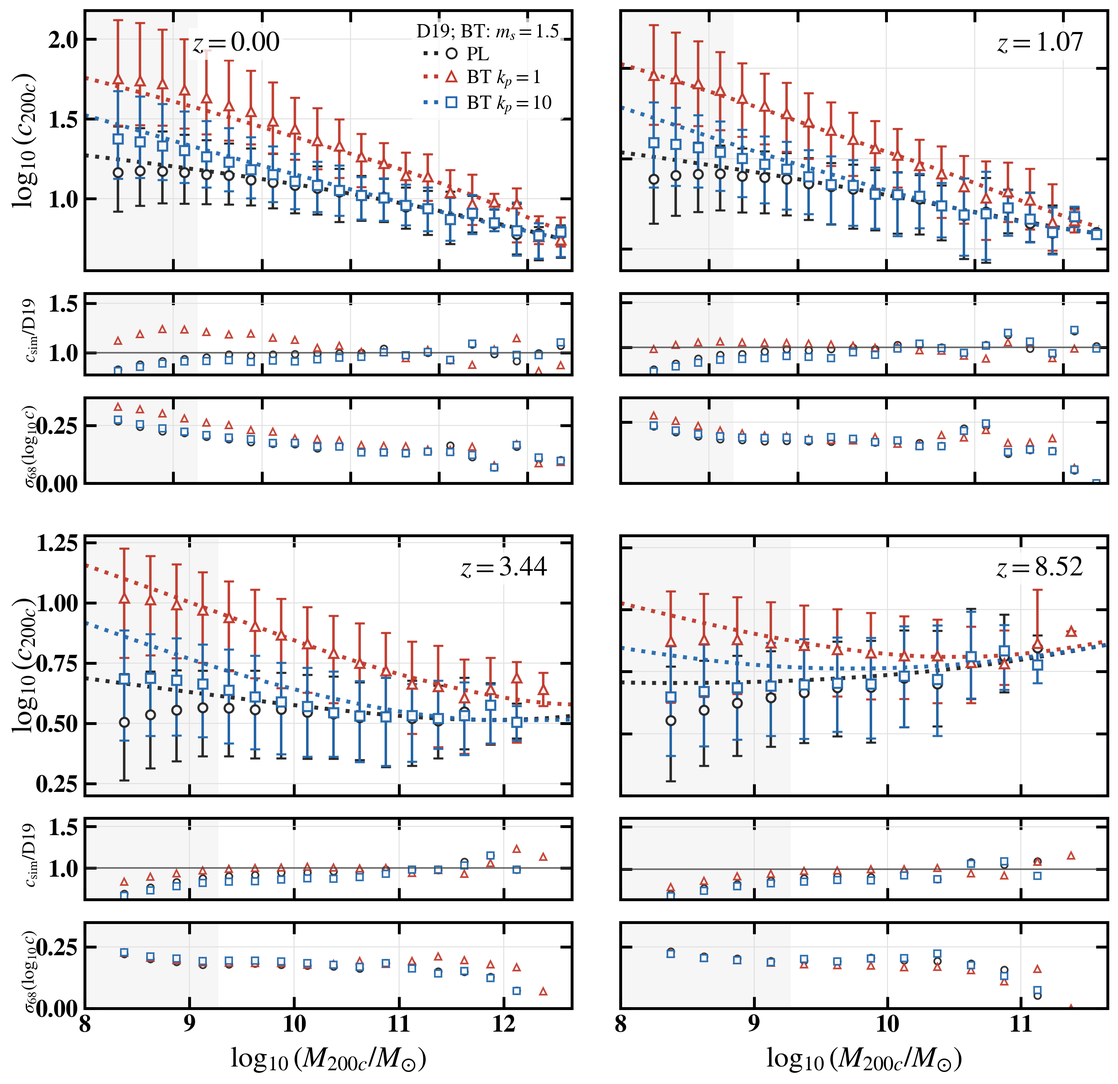
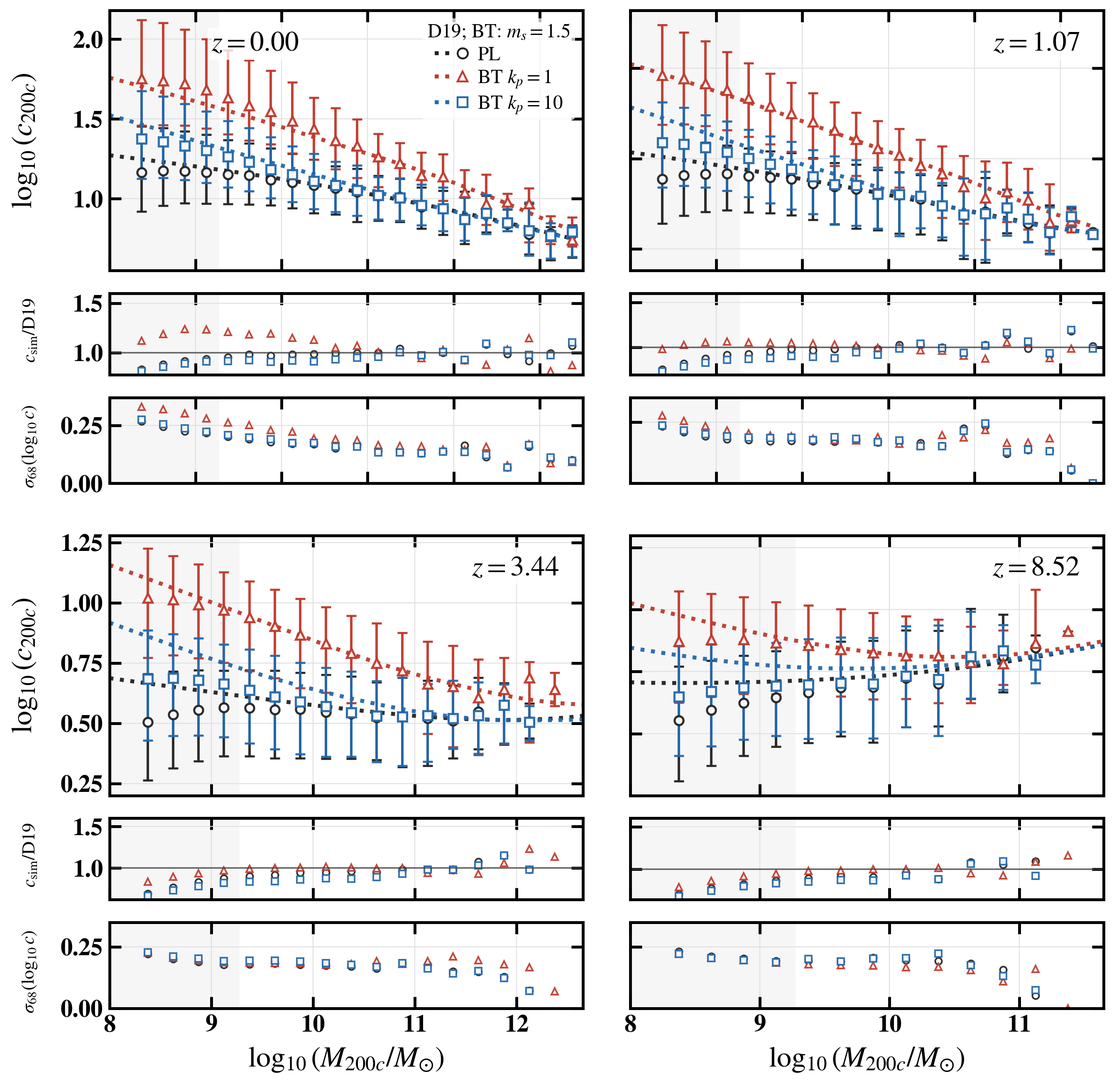
Address follow-up manuscript and figure review

diff --git a/main.tex b/main.tex
@@ -21,7 +21,7 @@
 \usepackage{dcolumn}
 \usepackage[mathlines]{lineno}
 \usepackage{multirow}
-\usepackage{url}
+\usepackage{xurl}
 \usepackage{xcolor}
 \DeclareRobustCommand{\change}[1]{\textcolor{blue}{#1}}
 \newcommand{\tabcell}[2]{\parbox[t]{#1}{\raggedright #2}}
@@ -95,7 +95,7 @@
 
 % ===== Abstract ===== #
 \begin{abstract}
-The primordial power spectrum is well constrained on large scales but remains uncertain on small scales. We use dark-matter-only cosmological \(N\)-body simulations initialized with the same random phases to determine how enhanced small-scale power changes nonlinear structure formation. We compare a standard power-law (PL) model with two broken-power-law blue-tilted (BT) models whose spectra steepen above pivot wavenumbers \(k_p=1\) and \(10\,h\,{\rm Mpc}^{-1}\). We measure halo mass functions, assembly histories, radial density profiles, concentration--mass relations, and nonlinear matter power spectra. Enhanced small-scale power increases the abundance of low-mass halos at high redshift, shifts halo assembly earlier, and increases the concentrations of low-mass halos. The \(k_p=1\,h\,{\rm Mpc}^{-1}\) model also produces denser resolved inner halo profiles. These effects are stronger in the \(k_p=1\,h\,{\rm Mpc}^{-1}\) model than in the \(k_p=10\,h\,{\rm Mpc}^{-1}\) model and weaken toward higher halo masses and lower redshifts. The nonlinear matter power enhancement grows toward higher redshift and higher wavenumber. Published mass-function, concentration, and mass-assembly prescriptions reproduce the broad trends, but their agreement with the simulations varies with redshift and halo mass. These dark-matter-only results can be used in studies that include baryonic physics and observational selection.
+The primordial power spectrum is well constrained on large scales but remains uncertain on small scales. We use dark-matter-only cosmological \(N\)-body simulations initialized with the same random phases to determine how enhanced small-scale power changes nonlinear structure formation. We compare a standard power-law (PL) model with two broken-power-law blue-tilted (BT) models whose spectra steepen above pivot wavenumbers \(k_p=1\) and \(10\,h\,{\rm Mpc}^{-1}\). We measure halo mass functions, \change{halo--matter bias,} assembly histories, radial density profiles, concentration--mass relations, and nonlinear matter power spectra. Enhanced small-scale power increases the abundance of low-mass halos at high redshift, shifts halo assembly earlier, and increases the concentrations of low-mass halos. The \(k_p=1\,h\,{\rm Mpc}^{-1}\) model also produces denser resolved inner halo profiles. These effects are stronger in the \(k_p=1\,h\,{\rm Mpc}^{-1}\) model than in the \(k_p=10\,h\,{\rm Mpc}^{-1}\) model and weaken toward higher halo masses and lower redshifts. The nonlinear matter power enhancement grows toward higher redshift and higher wavenumber. Published mass-function, concentration, and mass-assembly prescriptions reproduce the broad trends, but their agreement with the simulations varies with redshift and halo mass. These dark-matter-only results can be used in studies that include baryonic physics and observational selection.
 
 \end{abstract}
 
@@ -112,14 +112,10 @@ Small-scale enhancements of the primordial power spectrum arise in several class
 We use broken-power-law blue-tilted spectra to study how enhanced small-scale primordial power changes nonlinear structure formation. Here, ``blue-tilted'' (BT) refers specifically to a broken-power-law enhancement whose small-scale slope is steeper than the PL slope, following previous small-scale-power studies \citep[e.g.][]{Hirano15BlueTiltedPPS,Parashari23JWSTPPS,Hira24bluetilt,Tkac24BumpyPPS,deKruijf25DarkAges,Dekker25DwarfPPS,Wu25BT}.
 
 
-We compare a standard power-law primordial spectrum with two BT models using dark-matter-only cosmological \(N\)-body simulations in periodic boxes. The simulations are initialized with the same random phases. We measure the halo mass function (HMF), assembly histories, radial density profiles, concentrations, and the nonlinear matter power spectrum. We also test published halo mass-function, concentration, and mass-assembly prescriptions using the linear matter spectrum of each model without refitting their parameters.
+\change{We follow three dark-matter-only cosmological \(N\)-body models with matched initial phases to \(z=0\), comparing a standard power-law spectrum with two BT spectra. Sections~\ref{sec:theory} and \ref{sec:numerical} describe the spectra and simulations. In Sec.~\ref{sec:results}, we measure the halo mass function (HMF), halo--matter bias, assembly histories, radial density profiles, concentrations, and the nonlinear matter power spectrum. For the mass functions, concentrations, and assembly histories, we evaluate published prescriptions using each model's linear spectrum and the published parameters. Section~\ref{sec:discussion} discusses the physical trends, observational implications, and numerical limits.}
 
-\section{Theoretical Overview}
+\section{Power-Spectrum Models and Linear Matter Power}
 \label{sec:theory}
-
-The primordial power spectrum is specified by a PL or BT model such as Eq.~\eqref{eq:bt_input_power}. The input linear matter power spectrum is the spectrum at the initial redshift, \(z_i=200\), after applying the transfer function and normalizing to the common \(\sigma_8\) target.
-
-\subsection{Power-Spectrum Models and Linear Matter Power}
 \label{subsec:power_models}
 
 \change{In the power-law (PL) model, the primordial power spectrum scales as \(P_{\rm prim}(k)\propto k^{n_s}\), where \(k\) is the comoving wavenumber and \(n_s\simeq0.965\) is the scalar spectral index \citep{Planck20CMB}.}
@@ -151,7 +147,7 @@ To estimate the halo mass scale associated with each pivot, we follow \citet{Wu2
 M_p=\frac{4\pi}{3}r_l^3\rho_{{\rm crit},0}\Omega_{{\rm m},0}.
 \label{eq:pivot_mass}
 \end{equation}
-Here, \(\rho_{{\rm crit},0}\) is the present-day critical density and \(\Omega_{{\rm m},0}\) is the present-day matter density parameter. For our cosmology, \(k_p=1\) and \(10\,h\,{\rm Mpc}^{-1}\) give \(M_p=1.68\times10^{13}\) and \(1.68\times10^{10}\,M_\odot\), respectively. These values indicate the approximate mass scales affected by each pivot, but they are not sharp boundaries.
+Here, \(\rho_{{\rm crit},0}\) is the present-day critical density and \(\Omega_{{\rm m},0}\) is the present-day matter density parameter. For our cosmology, \(k_p=1\) and \(10\,h\,{\rm Mpc}^{-1}\) give \(M_p=1.68\times10^{13}\) and \(1.68\times10^{10}\,M_\odot\), respectively.
 
 \section{Numerical Methods}
 \label{sec:numerical}
@@ -178,7 +174,7 @@ For each set of corresponding PL and BT runs, we keep the background cosmology, 
 For the power-spectrum measurements (\S\ref{subsub:PS}), we use phase-paired simulations following \citet{Pontzen2016Inverted}. Each pair comprises the original simulation and a counterpart with the initial linear density contrast reversed, \(\delta_{\rm inv}(\boldsymbol{x},z_i)=-\delta_{\rm orig}(\boldsymbol{x},z_i)\), equivalent to shifting every initial Fourier phase by \(\pi\) while retaining its amplitude. At each redshift, we take the arithmetic mean of their measured power spectra before forming the BT/PL ratios. Averaging cancels contributions that are odd under the reversal of the initial density field, reducing phase-dependent fluctuations in the power-spectrum comparison within the finite simulation volume. The halo measurements use the original simulations.
 
 
-As an initial-condition consistency test, we compare the BT pivot scales with the particle-grid Nyquist wavenumber, \(k_{\rm Ny}=\pi N_{\rm side}/L_{\rm box}\), where \(N_{\rm side}\) is the number of particles along one dimension and \(L_{\rm box}\) is the comoving box length listed in Table~\ref{tab:simulation_parameters}. For the main \(25\,h^{-1}{\rm Mpc}\), \(1024^3\) runs, \(k_{\rm Ny}\simeq128.7\,h\,{\rm Mpc}^{-1}\). The two pivots, \(k_p=1\) and \(10\,h\,{\rm Mpc}^{-1}\), are therefore well below the grid Nyquist scale. We define the dimensionless linear power as \(\Delta^2(k,z)=k^3P_{\rm lin}(k,z)/(2\pi^2)\). The largest dimensionless linear power over this range is \(\Delta^2(k,z_i)\simeq5.8\times10^{-5}\) for \BTKPone{}, so the enhanced modes are still linear at \(z_i=200\). This comparison addresses the location and initial linearity of the imposed break, but it does not constitute a nonlinear convergence test.
+As an initial-condition consistency test, we compare the BT pivot scales with the particle-grid Nyquist wavenumber, \(k_{\rm Ny}=\pi N_{\rm side}/L_{\rm box}\), where \(N_{\rm side}\) is the number of particles along one dimension and \(L_{\rm box}\) is the comoving box length listed in Table~\ref{tab:simulation_parameters}. For the main \(25\,h^{-1}{\rm Mpc}\), \(1024^3\) runs, \(k_{\rm Ny}\simeq128.7\,h\,{\rm Mpc}^{-1}\). The two pivots, \(k_p=1\) and \(10\,h\,{\rm Mpc}^{-1}\), are therefore well below the grid Nyquist scale. We define the dimensionless linear power as \(\Delta^2(k,z)=k^3P_{\rm lin}(k,z)/(2\pi^2)\). The largest dimensionless linear power over this range is \(\Delta^2(k,z_i)\simeq5.8\times10^{-5}\) for \BTKPone{}, so the enhanced modes are still linear at \(z_i=200\).
 
 \begin{figure}[t]
     \centering
@@ -188,15 +184,13 @@ As an initial-condition consistency test, we compare the BT pivot scales with th
 \end{figure}
 
 
-\subsection{Simulation Code}
-We evolve the initial conditions with the cosmological $N$-body code \textsc{SWIFT} \citep{Schaller2024SWIFT}\footnote{Publicly available at \url{https://swiftsim.com/}.}. \textsc{SWIFT}'s gravity solver uses a fast-multipole method \citep{Dehn00FMM}, coupled to a Particle-Mesh solver at large scales \citep{Hock88PM}.
-
-
-\subsection{Simulation Suite and Terminology}
+\subsection{Simulation Suite and Code}
 \label{subsec:simulation_suite}
 \label{subsec:Terminology}
 
-Table~\ref{tab:simulation_parameters} lists the three simulations used for the main analysis. The main comparison uses three \(25\,h^{-1}{\rm Mpc}\), \(1024^3\) runs: PL, \BTKPone{}, and \BTKPten{}. They share the same mass resolution, force softening, initial random phases, and \textsc{SWIFT} settings, and differ only in the input linear matter spectrum generated by MonofonIC.
+\change{We evolve the initial conditions with \textsc{SWIFT} \citep{Schaller2024SWIFT}\footnote{Publicly available at \url{https://swiftsim.com/}.}, which couples a fast multipole gravity solver \citep{Dehn00FMM} to a particle-mesh solver on large scales \citep{Hock88PM}.}
+
+\change{Table~\ref{tab:simulation_parameters} lists the simulations used for the main analysis.} The main comparison uses three \(25\,h^{-1}{\rm Mpc}\), \(1024^3\) runs: PL, \BTKPone{}, and \BTKPten{}. They share the same mass resolution, force softening, initial random phases, and \textsc{SWIFT} settings, and differ only in the input linear matter spectrum generated by MonofonIC.
 
 
 
@@ -205,7 +199,7 @@ Table~\ref{tab:simulation_parameters} lists the three simulations used for the m
 
 
 \begin{table*}[t]
-\caption{\change{Parameters of the cosmological \(N\)-body simulations used in the main analysis. The \(k_p\) and \(m_s\) columns specify the primordial power-spectrum models (see \S\ref{sec:theory}); \(N_{\rm p}\) is the particle number; \(L_{\rm box}\) is the comoving box length; \(m_{\rm DM}\) is the dark matter particle mass; and \(\epsilon_{\rm Pl}\) is the Plummer-equivalent softening length in physical kpc at \(z=0\). The three \(25\,h^{-1}{\rm Mpc}\) runs share the same initial random phases. Additional PL simulations used for resolution and volume tests are described in Appendix~\ref{app:fof_hmf_resolution}.}}
+\caption{\change{Parameters of the cosmological \(N\)-body simulations used in the main analysis. The \(k_p\) and \(m_s\) columns specify the primordial power-spectrum models (see \S\ref{sec:theory}); \(N_{\rm p}\) is the particle number; \(L_{\rm box}\) is the comoving box length; \(m_{\rm DM}\) is the dark matter particle mass; and \(\epsilon_{\rm Pl}\) is the Plummer-equivalent softening length in physical kpc at \(z=0\). Within each box size, the three runs share the same initial random phases. Additional PL simulations used for resolution and volume tests are described in Appendix~\ref{app:fof_hmf_resolution}.}}
 \label{tab:simulation_parameters}
 \label{tab:Params_all_models}
 \centering
@@ -229,13 +223,13 @@ PL & -- & -- & \(1024^3\) & 25 & \(1.27\times 10^6\) & 0.725 \\
 \subsection{Halo Catalogs and Merger Trees}
 \label{subsec:halo_catalogs}
 
-We use Friends-of-Friends (FOF) \citep{Davis1985FOF} and spherical-overdensity (SO) masses for different measurements. \textsc{SWIFT} identifies FOF groups with a linking length equal to $0.2$ times the mean interparticle separation. We denote the total dark matter mass of each group by $M_{\rm FOF}$. We use \textsc{HBT-HERONS} \citep{Victor25HBTHERONS} to identify the bound objects associated with these groups and retain candidates with at least 20 particles.
+\change{\textsc{SWIFT} identifies friends-of-friends (FOF) groups \citep{Davis1985FOF} using a linking length of \(0.2\) times the mean interparticle separation. The total dark matter mass of each group is \(M_{\rm FOF}\). We identify bound objects associated with these groups with \textsc{HBT-HERONS} \citep{Victor25HBTHERONS}, retaining candidates with at least 20 particles.}
 
-We use \textsc{SOAP} \citep{McGibbon2025SOAP} to measure SO properties around the position of the most-bound \textsc{HBT-HERONS} particle. For a reference density $\rho_{\rm ref}(z)$, $R_{200}$ is the radius of a sphere within which the matter has an average density of $200\rho_{\rm ref}(z)$, and
+\change{\textsc{SOAP} \citep{McGibbon2025SOAP} measures spherical-overdensity (SO) properties around the most-bound \textsc{HBT-HERONS} particle. The mass within \(R_{200}\), the radius enclosing a mean density of \(200\rho_{\rm ref}(z)\), is}
 \begin{equation}
 M_{200}=\frac{4\pi}{3}\,200\rho_{\rm ref}(z)R_{200}^3.
 \end{equation}
-We use \(\rho_{\rm ref}(z)=\rho_{\rm crit}(z)\), the critical density at redshift \(z\), for \(M_{200c}\) and \(R_{200c}\). We use \(\rho_{\rm ref}(z)=\rho_{\rm m}(z)\), the cosmic mean matter density at redshift \(z\), for \(M_{200m}\) and \(R_{200m}\). These quantities are read from the \texttt{SO/200\_crit} and \texttt{SO/200\_mean} catalog fields.
+\change{The critical density \(\rho_{\rm crit}(z)\) defines \(M_{200c}\) and \(R_{200c}\), while the cosmic mean matter density \(\rho_{\rm m}(z)\) defines \(M_{200m}\) and \(R_{200m}\). The corresponding \textsc{SOAP} catalog fields are \texttt{SO/200\_crit} and \texttt{SO/200\_mean}.}
 %\Tk{You also use M200 below. Need to mention here.}
 
 We describe halo structure with the Navarro--Frenk--White (NFW) density profile \citep{Navarro1996NFW,Navarro1997NFW},
@@ -246,7 +240,7 @@ We describe halo structure with the Navarro--Frenk--White (NFW) density profile 
 \end{equation}
 where \(r_s\) is the scale radius and \(\rho_s\) is the characteristic density. The \(200c\) concentration is \(c_{200c}=R_{200c}/r_s\).
 
-We measure radial density profiles by binning dark matter particles in spherical shells centered on the most-bound particle identified by \textsc{HBT-HERONS}. We match the halo catalog to these particle positions using the persistent halo identifiers and retain the \textsc{SOAP} \(M_{200m}\) and \(R_{200m}\) for mass selection and radial scaling.
+\change{For the radial profiles, we use persistent halo identifiers to match the catalog entries to the positions of their most-bound particles and bin the dark matter in spherical shells around those positions. The \textsc{SOAP} values of \(M_{200m}\) and \(R_{200m}\) set the mass selection and radial scale.}
 
 The concentration analysis uses the \textsc{SOAP} \(c_{200c}\) value for the SO aperture centered on the most-bound-particle position supplied by \textsc{HBT-HERONS}. \textsc{SOAP} derives this concentration from the first radial moment of the mass distribution inside \(R_{200c}\), assuming an NFW profile. Particle radii smaller than the force-softening length are set to that length in this calculation.
 
@@ -266,7 +260,7 @@ The concentration analysis uses the \textsc{SOAP} \(c_{200c}\) value for the SO 
 \end{figure*}
 
 
-At \(z=8.52\), both BT models show more small-scale structure than PL, with the strongest contrast in \BTKPone{}. The differences become less visible toward \(z=0\). We quantify them below using halo and matter statistics.
+\change{Figure~\ref{fig:dark_matter_comparison} shows the projected dark matter density at \(z=8.52\), \(2.03\), and \(0\). The large-scale structures appear in the same locations across the three phase-matched simulations. At \(z=8.52\), both BT runs show more small-scale clumping than PL, especially \BTKPone{}. The visual contrast is weaker by \(z=0\).}
 
 \subsection{Halo Mass Function\label{subsub:HMF}}
 
@@ -300,7 +294,7 @@ Within the resolved mass range, both blue-tilted models increase the low-mass FO
 
 \change{We also measure the halo mass function using the spherical-overdensity mass definition \(M_{200c}\). Here the logarithmic mass bins have width \(\Delta\log_{10}M_{200c}=0.15\) dex, and the plotted mass coordinate is the geometric bin center, \(M_{\rm cen}=\sqrt{M_{\rm low}M_{\rm high}}\), where \(M_{\rm low}\) and \(M_{\rm high}\) are the bin edges. We obtain \(dn/d\ln M_{200c}\) by dividing the halo count by the comoving volume and the natural-log bin width, \(\Delta\ln M_{200c}=0.15\ln 10\). The simulation points are measured from the SOAP \texttt{SO/200\_crit} catalogs with a minimum of 100 dark matter particles per halo, corresponding to \(M_{200c}\simeq1.9\times10^8\,M_\odot\) in the main runs, and the plotted bins also impose \(M_{200c}\ge2.0\times10^8\,M_\odot\). We evaluate the Bocquet et al. (2016) \(M_{200c}\) mass function \citep{Bocquet2016} using the linear matter power spectrum of each model: PL, \BTKPone{}, and \BTKPten{}.}
 
-We quantify the agreement using the median simulation-to-model ratio across mass bins above the adopted mass limit and containing at least 20 halos. At \(z=0\) and \(z=3.44\), this median differs from unity by less than \(8\%\) for every model in both the Reed et al. (2007) FOF and Bocquet et al. (2016) \(M_{200c}\) comparisons. At \(z=8.52\), the median differences increase to \(2\)--\(22\%\) for Reed et al. (2007) and \(16\)--\(32\%\) for Bocquet et al. (2016). Larger deviations occur in sparsely populated high-mass bins. Thus, the median agreement is strongest at lower redshift and less uniform at high redshift.
+We quantify the agreement using the median simulation-to-model ratio across mass bins above the adopted mass limit and containing at least 20 halos. At \(z=0\) and \(z=3.44\), this median differs from unity by less than \(8\%\) for every model in both the Reed et al. (2007) FOF and Bocquet et al. (2016) \(M_{200c}\) comparisons. At \(z=8.52\), the median differences increase to \(2\)--\(22\%\) for Reed et al. (2007) and \(16\)--\(32\%\) for Bocquet et al. (2016). Larger deviations occur in sparsely populated high-mass bins.
 
 \begin{figure*}[t]
     \centering
@@ -314,7 +308,7 @@ We quantify the agreement using the median simulation-to-model ratio across mass
 \begin{figure*}[t]
     \centering
     \includegraphics[width=\textwidth]{halo-bias.pdf}
-    \caption{\change{Halo--matter bias for PL, \BTKPone{}, and \BTKPten{}. Circles and triangles show FOF groups in the \(256\) and \(25\,h^{-1}{\rm Mpc}\) boxes, respectively. Diamonds show \textsc{SOAP} \(M_{200m}\) measurements for \textsc{HBT+} centrals in the smaller box. Error bars are jackknife uncertainties obtained by omitting one independent Fourier mode at a time. Solid and dashed lines show Tinker et al. (2010) \protect\cite{Tinker2010HaloBias} at \(M_{200m}\) and Sheth--Tormen (1999) \protect\cite{ShethTormen1999Bias}, respectively. Halo masses are shown in \(h^{-1}M_\odot\). The two boxes sample the different \(k\) intervals specified in the text. At \(z=10.52\), only the smaller box has mass bins that pass the selection cuts.}}
+    \caption{\change{Halo--matter bias for PL, \BTKPone{}, and \BTKPten{}. Circles and triangles show FOF groups in the \(256\) and \(25\,h^{-1}{\rm Mpc}\) boxes, respectively. Diamonds show \textsc{SOAP} \(M_{200m}\) measurements for \textsc{HBT+} centrals in the smaller box. Error bars are jackknife uncertainties obtained by omitting one independent Fourier mode at a time. Solid and dashed lines show Tinker et al. (2010) \protect\cite{Tinker2010HaloBias} at \(M_{200m}\) and Sheth--Tormen (1999) \protect\cite{ShethTormen1999Bias}, respectively. Halo masses are shown in \(M_\odot\). The two boxes sample the different \(k\) intervals specified in the text. At \(z=10.52\), only the smaller box has mass bins that pass the selection cuts.}}
     \label{fig:halo_bias}
 \end{figure*}
 
@@ -333,7 +327,7 @@ where the sums run over independent Fourier modes in the selected \(k\) interval
 
 We do not fill missing snapshots or force the recorded mass histories to increase monotonically. Temporary FOF bridge or split events can therefore remove a halo from the measurable sample or produce a temporary mass decrease.
 
-Figure~\ref{fig:half_mass_redshift} compares our measurements with the relations of \citet{BoylanKolchin2009MSII} (BK09) and \citet{Hellwing16cocoproject} (COCO/Hellwing16). BK09 measured the mean half-mass formation redshift in the Millennium-II simulation using virial masses. COCO/Hellwing16 used the same fitting form with FOF masses. We evaluate both published relations at the mean final mass in each of our FOF mass bins. The external simulations use different background cosmologies, and BK09 also uses a different halo-mass definition. These standard-power-law relations provide qualitative comparisons with the PL assembly histories.
+Figure~\ref{fig:half_mass_redshift} compares our measurements with the relations of \citet{BoylanKolchin2009MSII} (BK09) and \citet{Hellwing16cocoproject} (COCO/Hellwing16). BK09 measured the mean half-mass formation redshift in the Millennium-II simulation using virial masses. COCO/Hellwing16 used the same fitting form with FOF masses. We evaluate both published relations at the mean final mass in each of our FOF mass bins. The external simulations use different background cosmologies, and BK09 also uses a different halo-mass definition.
 
 For the 15 resolved PL bins spanning \(1.25\times10^9\le M_{\rm FOF}/M_\odot\le8.22\times10^{11}\), the mean absolute offset \(\langle|z_{1/2}^{\rm PL}-z_{1/2}^{\rm ref}|\rangle\) is \(0.053\) from BK09 and \(0.097\) from COCO/Hellwing16. The maximum absolute offsets are \(0.128\) and \(0.207\), respectively. Thus, the PL measurements follow both external relations to within about \(0.1\) in \(z_{1/2}\) on average.
 
@@ -389,7 +383,7 @@ For the Correa-EPS curves, we use the Planck 2018 cosmology in Sec.~\ref{subsec:
 
 At fixed final FOF mass, both the simulations and the Correa-EPS calculation predict larger progenitor masses for \BTKPone{} than for PL. The difference increases with redshift, indicating earlier assembly in \BTKPone{}. The Correa-EPS calculation agrees more closely with the \BTKPone{} histories. For \(10^9\le M_0/M_\odot\le10^{11}\), the maximum absolute difference \(\lvert M_{\rm sim}/M_{\rm Correa}-1\rvert\) at \(z=1,2,4,\) and \(6\) is \(46\%\) for PL and \(9\%\) for \BTKPone{}. At \(M_0=3\times10^{11}\,M_\odot\), the corresponding differences are \(23\%\) and \(16\%\), respectively.
 %\Tk{Mention that We also expect the results from the EPS formula: In BT, we have higher sigma, so lower f(M0), so slower exponential delay.}
-The same trend follows from Eqs.~(\ref{eq:correa2015_mah}) and (\ref{eq:correa2015_fm0}). The enhanced small-scale power in \BTKPone{} increases \(S(M_0/q)-S(M_0)\) and therefore reduces \(f(M_0)\). Since \(\ln[M(z)/M_0]=f(M_0)[a\ln(1+z)-z]\), a smaller \(f(M_0)\) causes \(M(z)/M_0\) to decrease more slowly with redshift. The EPS model therefore predicts larger progenitor masses for \BTKPone{} at fixed \(M_0\), consistent with the simulations.
+The same trend follows from Eqs.~(\ref{eq:correa2015_mah}) and (\ref{eq:correa2015_fm0}). The enhanced small-scale power in \BTKPone{} increases \(S(M_0/q)-S(M_0)\) and therefore reduces \(f(M_0)\). Since \(\ln[M(z)/M_0]=f(M_0)[a\ln(1+z)-z]\), a smaller \(f(M_0)\) causes \(M(z)/M_0\) to decrease more slowly with redshift.
 
 
 %\Tk{Need to add a paragraph comparing Correa and our simulation results. Note that our resolution is 1e6Msun, so Mhalo 1e8 may not be reliable. That is the bottom lines in Fig.6. We might take it out. }
@@ -440,7 +434,7 @@ The simulation points in Fig.~\ref{fig:concentration_comparison_d19} show the me
 At \(z=0\), the median concentration in the \(10^9\)--\(10^{9.5}\,M_\odot\) bin exceeds the PL value by factors of \(3.20\) for \BTKPone{} and \(1.35\) for \BTKPten{}. The 16th--84th percentile ranges in Fig.~\ref{fig:concentration_comparison_d19} show substantial halo-to-halo scatter, with the largest scatter in the lowest-mass bins.
 
 
-The stronger concentration enhancement in \BTKPone{} follows the same ordering as the HMF and assembly-history changes. Its lower pivot enhances a broader range of resolved modes than in \BTKPten{}. Halo concentration is linked to formation history and responds to changes in the linear matter spectrum \citep{Ludlow2016WDMConcentration,Brown2020HaloPPS}. The higher concentrations in the BT runs are therefore consistent with their earlier assembly.
+The stronger concentration enhancement in \BTKPone{} follows the same ordering as the HMF and assembly-history changes. Its lower pivot enhances a broader range of resolved modes than in \BTKPten{}. Halo concentration is linked to formation history and responds to changes in the linear matter spectrum \citep{Ludlow2016WDMConcentration,Brown2020HaloPPS}.
 
 
 The lower rows in Fig.~\ref{fig:concentration_comparison_d19} show \(c_{\rm sim}/c_{\rm D19}\) and the halo-to-halo concentration scatter \(\sigma_{68}(\log_{10}c)=0.5(P_{84}-P_{16})\), where \(P_{16}\) and \(P_{84}\) are the 16th and 84th percentiles of \(\log_{10}c\) in each bin. For the comparison with D19, we use only 0.25-dex bins whose full mass interval lies above the 1000-particle scale, \(M_{200c}=1.89\times10^9\,M_\odot\), and that contain at least 20 halos. Across these bins, \(\lvert c_{\rm sim}/c_{\rm D19}-1\rvert\) remains below \(20\%\) for all three models at the four plotted redshifts. The largest difference is \(19.3\%\) for \BTKPone{} at \(z=0\).
@@ -464,7 +458,7 @@ A separate study in preparation (Wu, Chan, Lange, \& Huang) examines the Diemer 
 
 \change{Figure~\ref{fig:power_spectra_ratio_z0} compares PL, \BTKPone{}, and \BTKPten{} at four redshifts. The displayed interval is \(10k_{\rm f}\le k\le0.25k_{\rm Ny}\), or \(2.51\lesssim k/(h\,{\rm Mpc}^{-1})\lesssim32.2\), where \(k_{\rm f}=2\pi/L_{\rm box}\) and \(k_{\rm Ny}=\pi N_{\rm mesh}/L_{\rm box}\), with \(N_{\rm mesh}=1024\). The BT and PL spectra in each ratio are measured within the same box. The finite box excludes long-wavelength modes and can shift the absolute power~\citep{Takahashi2008FiniteModes}.}
 
-\BTKPone{} has more small-scale power than PL, with a larger enhancement at higher redshift and higher \(k\). At \(z=0\), the power exceeds PL by approximately \(5\%\), \(11\%\), and \(16\%\) near \(k=5\), \(10\), and \(20\,h\,{\rm Mpc}^{-1}\), respectively. At \(z=8.52\) and \(k\simeq20\,h\,{\rm Mpc}^{-1}\), the enhancement is approximately \(321\%\) (lower panels of Fig.~\ref{fig:power_spectra_ratio_z0}). At this point, \(P_{\rm PL}\simeq3.10\times10^{-3}\) and \(P_{\rm BT}\simeq1.30\times10^{-2}\) in units of \(h^{-3}\,{\rm Mpc}^3\), with \(k^3P_{\rm PL}/(2\pi^2)\simeq1.28\). The subtracted Poisson term is about \(0.5\%\) of \(P_{\rm PL}\). In contrast, \BTKPten{} remains close to PL at low redshift and shows a modest high-\(k\) enhancement at \(z=8.52\). The lower pivot in \BTKPone{} therefore leaves a stronger imprint on nonlinear matter clustering.
+\BTKPone{} has more small-scale power than PL, with a larger enhancement at higher redshift and higher \(k\). At \(z=0\), the power exceeds PL by approximately \(5\%\), \(11\%\), and \(16\%\) near \(k=5\), \(10\), and \(20\,h\,{\rm Mpc}^{-1}\), respectively. At \(z=8.52\) and \(k\simeq20\,h\,{\rm Mpc}^{-1}\), the enhancement is approximately \(321\%\) (lower panels of Fig.~\ref{fig:power_spectra_ratio_z0}). At this point, \(P_{\rm PL}\simeq3.10\times10^{-3}\) and \(P_{\rm BT}\simeq1.30\times10^{-2}\) in units of \(h^{-3}\,{\rm Mpc}^3\), with \(k^3P_{\rm PL}/(2\pi^2)\simeq1.28\). The subtracted Poisson term is about \(0.5\%\) of \(P_{\rm PL}\). In contrast, \BTKPten{} remains close to PL at low redshift and shows a modest high-\(k\) enhancement at \(z=8.52\).
 
 \begin{figure*}[t]
     \centering
@@ -478,7 +472,7 @@ A separate study in preparation (Wu, Chan, Lange, \& Huang) examines the Diemer 
 
 \subsection{Physical Interpretation of the Main Trends}
 
-Enhancing the primordial power spectrum above \(k_p\) increases the amplitude of the initial density fluctuations on those scales. Regions with larger overdensities collapse earlier. The characteristic mass \(M_p\) in Eq.~\eqref{eq:pivot_mass} estimates the halo scale associated with each pivot but does not define a sharp boundary. At high redshift, the HMF enhancement is strongest below \(M_p\). At later times, the HMF difference decreases, while the assembly histories and central densities remain different from PL.
+Enhancing the primordial power spectrum above \(k_p\) increases the amplitude of the initial density fluctuations on those scales. Regions with larger overdensities collapse earlier. \change{At high redshift, the HMF enhancement is strongest below the characteristic mass \(M_p\) in Eq.~\eqref{eq:pivot_mass}.} At later times, the HMF difference decreases, while the assembly histories and central densities remain different from PL.
 
 \BTKPone{} produces the larger change because its lower pivot enhances a broader range of resolved modes. The higher pivot of \BTKPten{} restricts the added power to smaller scales, so the differences from PL decrease more rapidly with halo mass. Nonlinear growth and mergers further reduce the abundance contrast toward lower redshift.
 
@@ -524,6 +518,8 @@ The main conclusions are as follows:
 
     The median differences between the simulations and analytic models of Reed et al. (2007) \citep{Reed_2007} and Bocquet et al. (2016) \citep{Bocquet2016} are below \(8\%\) at \(z=0\) and \(3.44\), but reach \(32\%\) at \(z=8.52\).
 
+    \item \change{At \(z=6.15\) in the \(25\,h^{-1}{\rm Mpc}\) box, the median \BTKPone{}/PL halo--matter bias ratio across the seven common mass bins is \(0.58\) for FOF halos and \(0.59\) for SOAP \(M_{200m}\) centrals (Sec.~\ref{subsec:halo_bias}).}
+
     \item \change{Enhanced small-scale primordial power shifts halo assembly earlier (Sec.~\ref{subsub:HMR}). For halos with a present-day halo mass \(M_0\simeq1.25\times10^9\,M_\odot\), the half-mass assembly redshift \(z_{1/2}\) increases from \(2.28\) in PL to \(4.24\) in \BTKPone{} and \(2.61\) in \BTKPten{}. The full mass-assembly histories also show earlier assembly in \BTKPone{} than in PL (Sec.~\ref{subsub:MAH}).}
 
     \change{Across \(10^9\le M_0/M_\odot\le10^{11}\), the Correa et al. (2015) curves \citep{Correa2015MAHI} agree with the median histories by \(< 46\%\) for PL and \(<9\%\) for \BTKPone{} over the redshifts used for the comparison.}
@@ -543,9 +539,7 @@ Future work should test other enhanced primordial spectra, including localized G
 \section*{Data Availability}
 
 
-\change{The reduced data, compact per-halo catalogs, and figure reproduction materials are archived in the complete version 1.1.0 release on Zenodo \footnote{\url{https://doi.org/10.5281/zenodo.23788725}}. The manuscript source, reduced tables, and analysis scripts are also available on \href{https://github.com/HainaHuang729/nonlinear-evolution-of-cosmological-structures-with-enhanced-primordial-power-spectrum}{GitHub}.}
-The archive contains the input linear matter power spectra, binned halo mass functions, half-mass redshift summaries, median mass-assembly histories, Correa-comparison curves, radial-density profile summaries, concentration--mass summaries, and nonlinear matter power-spectrum measurements. It also includes nine compressed HDF5 files containing the individual halo inputs at six snapshots, tracked mass histories, and radial-profile selections; the clean projected-density mosaic and panel metadata; radial-profile bootstrap caches; and the project \textsc{Colossus} source. The README, dependency specifications, validation reports, and checksum manifests document catalog validation and figure reproduction.
-The full simulation snapshots, particle coordinates, and complete \textsc{HBT-HERONS}/\textsc{SOAP} catalogs are not included because of their substantially larger size. The released projection and radial-profile products document the viewing geometry and halo selections used in this paper. The reduced profiles and plotting inputs for the updated most-bound-particle measurement are available in the GitHub repository. The reduced halo--matter bias table and plotting script accompany the manuscript source.
+\change{The reduced measurements, compact halo catalogs, and figure reproduction materials are available in the Zenodo v1.1.0 release\footnote{\url{https://doi.org/10.5281/zenodo.23788725}}. The accompanying GitHub repository\footnote{\url{https://github.com/HainaHuang729/nonlinear-evolution-of-cosmological-structures-with-enhanced-primordial-power-spectrum}} contains the manuscript source, analysis scripts, and reduced measurements, including the halo--matter bias table and the updated radial profiles. The particle snapshots and full \textsc{HBT-HERONS}/\textsc{SOAP} catalogs are excluded because of their size.}
 
 \begin{acknowledgments}
 
@@ -581,6 +575,7 @@ Table~\ref{tab:trusted_ranges} summarizes the mass, redshift, radius, and wavenu
 \midrule
 \tabcell{0.18\textwidth}{FOF halo mass function} & \tabcell{0.17\textwidth}{\(M_{\rm FOF}\)} & \tabcell{0.20\textwidth}{\(M_{\rm FOF}\ge10^8\,M_\odot\)} & \tabcell{0.36\textwidth}{About 50 particles in the fiducial runs; the gray band marks the interval down to the nominal 20-particle threshold. Appendix~\ref{app:fof_hmf_resolution} gives the PL resolution and volume test.} \\
 \tabcell{0.18\textwidth}{\(M_{200c}\) mass-function comparison} & \tabcell{0.17\textwidth}{\(M_{200c}\)} & \tabcell{0.20\textwidth}{\(M_{200c}\ge2.0\times10^8\,M_\odot\)} & \tabcell{0.36\textwidth}{SOAP \texttt{SO/200\_crit} catalogs require a per-halo dark matter particle count \(N_{\rm DM}\ge100\), close to \(1.9\times10^8\,M_\odot\).} \\
+\tabcell{0.18\textwidth}{\change{Halo--matter bias}} & \tabcell{0.17\textwidth}{\change{\(b_{\rm hm}\), \(M_{\rm FOF}\) or \(M_{200m}\)}} & \tabcell{0.20\textwidth}{\change{\(k=0.25\)--\(0.60\) (25 box) and \(0.03\)--\(0.15\) (256 box), in \(h\,{\rm Mpc}^{-1}\)}} & \tabcell{0.36\textwidth}{\change{At least 100 particles per halo and 200 halos per 0.30-dex bin. The lowest retained bin edges are about \(3.7\times10^8\,M_\odot\) (25 box) and \(3.7\times10^{11}\,M_\odot\) (256 box). See Sec.~\ref{subsec:halo_bias}.}} \\
 \tabcell{0.18\textwidth}{Half-mass assembly} & \tabcell{0.17\textwidth}{\(M_{\rm FOF}(z=0)\), \(z_{1/2}\)} & \tabcell{0.20\textwidth}{Quoted trends use \(M_{\rm FOF}(z=0)\gtrsim10^9\,M_\odot\)} & \tabcell{0.36\textwidth}{Each halo is followed through its \texttt{TrackId}. Missing snapshots are not filled, and the recorded FOF mass history is not forced to increase monotonically.} \\
 \tabcell{0.18\textwidth}{Median mass-assembly history} & \tabcell{0.17\textwidth}{\(M_{\rm FOF}(z=0)\), median \(M_{\rm FOF}(z)\)} & \tabcell{0.20\textwidth}{Quantitative use: \(M_0\ge10^9\,M_\odot\), \(z\le6\)} & \tabcell{0.36\textwidth}{Halos are selected at \(z=0\) and followed through \texttt{TrackId}. Only finite positive detections enter each median. More than 90 per cent of each selected sample is detected over the quoted range.} \\
 \tabcell{0.18\textwidth}{Direct radial halo density profiles} & \tabcell{0.17\textwidth}{Particle radial profiles in \(M_{200m}\) bins} & \tabcell{0.20\textwidth}{Plotted bins use \(10^{10}\)--\(10^{11.5}\,M_\odot\)} & \tabcell{0.36\textwidth}{Profiles are measured directly from simulation particles and compared with NFW profiles whose concentrations are set by the Diemer \& Joyce (2019) relation; the gray region marks radii that do not satisfy the plotted convergence criterion.} \\
@@ -630,7 +625,7 @@ This appendix shows the concentration--mass comparison for two additional publis
 At \(z=0\) and \(10^9\le M_{200c}/M_\odot<10^{9.5}\), the median \(c_{\rm sim}/c_{\rm I21,fit}\) values are \(0.96\), \(1.38\), and \(1.12\) for PL, \BTKPone{}, and \BTKPten{}, respectively.
 
 
-At \(z=8.52\), the L16 prediction differs more strongly from the simulations at the high-mass end. The simulated median concentration rises in the highest-mass bins, whereas L16 continues to decline. These bins contain few halos, so this trend should be interpreted qualitatively. The I21 and D19 predictions also show an upturn at high mass.
+At \(z=8.52\), the L16 prediction differs more strongly from the simulations at the high-mass end. \change{The simulated median concentration rises in the sparsely populated highest-mass bins, while L16 continues to decline.} The I21 and D19 predictions also show an upturn at high mass.
 
 \begin{figure*}[t]
     \centering

diff --git a/public_data/scripts/concentration_qc_kp10.py b/public_data/scripts/concentration_qc_kp10.py
@@ -94,7 +94,7 @@ MASS_NPART_STRICT_MSUN = NPART_STRICT * MAIN_PARTICLE_MASS_MSUN
 CONC_MAX = 500.0
 SIMULATION_N_BINS = 22
 OUTER_PANEL_HSPACE = 0.11
-LEFT_LABEL_X = -0.095
+LEFT_LABEL_X = -0.15
 PANEL_X_LIMITS = {
     "0056": (8.0, 13.5),
     "0048": (8.0, 13.5),
@@ -610,7 +610,7 @@ def plot_theory_figure(theory_model, stats_by_snap, mass_msun):
     outer_grid = fig.add_gridspec(
         2,
         2,
-        left=0.09,
+        left=0.115,
         right=0.985,
         bottom=0.075,
         top=0.985,
@@ -766,7 +766,7 @@ def plot_theory_figure(theory_model, stats_by_snap, mass_msun):
             )
 
     fig.subplots_adjust(
-        left=0.09,
+        left=0.115,
         right=0.985,
         bottom=0.075,
         top=0.985,

diff --git a/reviewer_comments_record.md b/reviewer_comments_record.md
@@ -1512,3 +1512,19 @@ reproduction inputs are in public_data/particle_profiles_paired/.
 - **Halo bias.** The bias code uses a spherical top-hat to compute the linear variance. Sheth and Tormen (1999), Section 2, used a spherical-overdensity group finder. The text now states both facts, identifies the mass-definition difference for the FOF comparison, and specifies the mass units in the caption. Table I includes the three 256-box runs used by the bias figure. Snapshot metadata confirms the particle count and softening.
 - **Initial conditions and methods.** Quantified the below-pivot normalization offset from the released input spectra. Distinguished the common NGP window factor from residual aliasing. Moved the Correa formation-redshift definition after the closure equations.
 - **Figures and references.** Cleared the row-label overlaps in the concentration figures, updated the mass-assembly legend and removed the title, and removed the redundant label from the FOF resolution figure. Corrected notation, reference formatting, and the SWIFT citation in the acknowledgments.
+
+## Follow-up manuscript review
+
+- Moved the concentration-panel y-axis labels left and increased the left margin. The rendered label boxes clear the tick labels on all three figures.
+- Corrected the bias caption to solar masses. The plotting script divides both catalog masses and model mass grids by h before plotting.
+- Restored the full and clickable GitHub URL in the data availability footnote. The link is present as a PDF annotation.
+- Added halo–matter bias to the abstract, introduction, conclusions, and numerical ranges table. Recomputed the quoted small-box bias ratios from the figure data and checked the retained mass-bin boundaries.
+- Added the within-box phase statement to Table I. Matching particles by ID in the 256-box initial snapshots at z = 200 gives Cartesian velocity correlations of at least 0.997 for each model pair.
+  Fourier transforms of the three initial density grids independently give normalized cross-correlations above 0.9999 for $0.03\le k<0.1\,h\,\mathrm{Mpc}^{-1}$ across all pairs (cluster job 2382975).
+
+## Follow-up prose review
+
+- Reworked the introduction to guide the reader from the spectra and simulation setup to the measurements and their interpretation. Removed the redundant opening of the theory section and integrated the simulation-code paragraph into the simulation-suite subsection.
+- Recast the halo-catalog and radial-profile methods around the quantities being measured. Added the missing reference to the projection figure and described the changes visible in its panels.
+- Removed repeated interpretations where the preceding result already states the finding. Retained the distinct mass definitions, cosmologies, and sparse-bin limitations.
+- Shortened data availability to the scope of the Zenodo and GitHub releases and retained both links. The manuscript makes no new data-access commitment.
